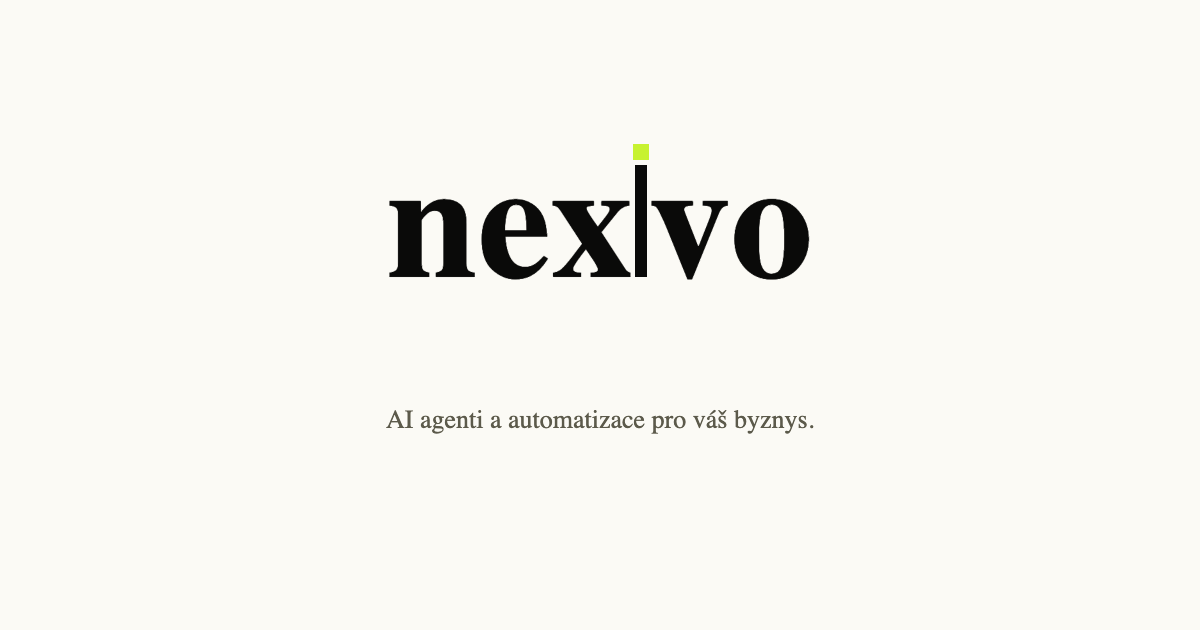
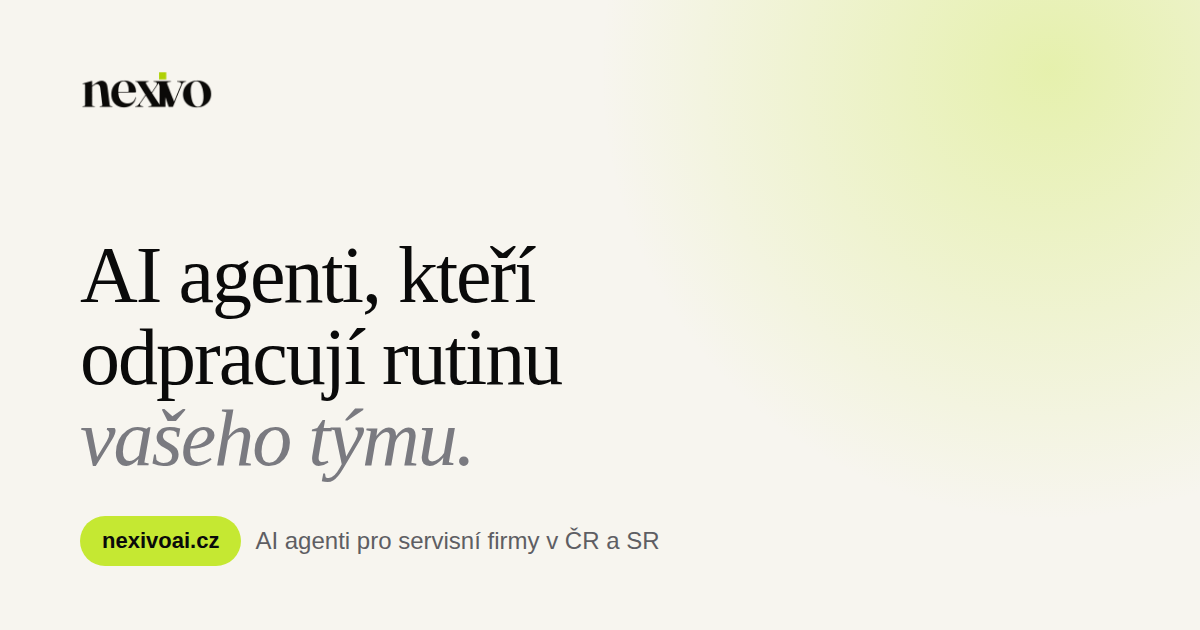
SEO: titulky a popisy s klíčovými slovy, jednotné OG/Twitter tagy, nový OG obrázek, rychlejší načtení fontu
- Titulky a meta description na všech veřejných stránkách, OG i na /gdpr a /obchodni-podminky
- Nový OG obrázek 1200x630 s aktuálním sdělením (?v=2 kvůli cache sítí)
- Fraunces přes <link> s preconnect místo @import v CSS (nezdržuje vykreslení)
- /kariera: nadpisy H2 -> H3 bez přeskoku, logo v JobPosting

Claude-Session: https://claude.ai/code/session_01MtvTmERJj1y5Pu5KuPm6vQ

diff --git a/kariera.html b/kariera.html
@@ -3,24 +3,28 @@
 <head>
   <meta charset="utf-8">
   <meta name="viewport" content="width=device-width, initial-scale=1">
-  <title>Kariéra — Nexivo</title>
-  <meta name="description" content="Nexivo hledá Obchodníka a Telefonistu do obchodního týmu. Pomáhejte firmám v ČR a SR nasazovat AI agenty.">
+  <title>Kariéra v Nexivo — obchodník a telefonista</title>
+  <meta name="description" content="Nexivo hledá Obchodníka a Telefonistu do obchodního týmu. Pomáhejte firmám v ČR a SR nasazovat AI agenty. Práce na dálku.">
   <meta name="robots" content="index, follow">
   <link rel="canonical" href="https://nexivoai.cz/kariera">
   <meta property="og:type" content="website">
   <meta property="og:url" content="https://nexivoai.cz/kariera">
-  <meta property="og:title" content="Kariéra — Nexivo">
-  <meta property="og:description" content="Nexivo hledá Obchodníka a Telefonistu do obchodního týmu. Pomáhejte firmám v ČR a SR nasazovat AI agenty.">
-  <meta property="og:image" content="https://nexivoai.cz/assets/nexivo-og.png">
+  <meta property="og:title" content="Kariéra v Nexivo — obchodník a telefonista">
+  <meta property="og:description" content="Nexivo hledá Obchodníka a Telefonistu do obchodního týmu. Pomáhejte firmám v ČR a SR nasazovat AI agenty. Práce na dálku.">
+  <meta property="og:image" content="https://nexivoai.cz/assets/nexivo-og.png?v=2">
   <meta property="og:image:width" content="1200">
   <meta property="og:image:height" content="630">
+  <meta property="og:image:alt" content="Nexivo — AI agenti, kteří odpracují rutinu vašeho týmu">
   <meta property="og:locale" content="cs_CZ">
   <meta property="og:site_name" content="Nexivo">
   <meta name="twitter:card" content="summary_large_image">
-  <meta name="twitter:title" content="Kariéra — Nexivo">
-  <meta name="twitter:description" content="Nexivo hledá Obchodníka a Telefonistu do obchodního týmu.">
-  <meta name="twitter:image" content="https://nexivoai.cz/assets/nexivo-og.png">
+  <meta name="twitter:title" content="Kariéra v Nexivo — obchodník a telefonista">
+  <meta name="twitter:description" content="Nexivo hledá Obchodníka a Telefonistu do obchodního týmu. Pomáhejte firmám v ČR a SR nasazovat AI agenty. Práce na dálku.">
+  <meta name="twitter:image" content="https://nexivoai.cz/assets/nexivo-og.png?v=2">
   <link rel="icon" href="assets/nexivo-favicon.svg">
+  <link rel="preconnect" href="https://fonts.googleapis.com">
+  <link rel="preconnect" href="https://fonts.gstatic.com" crossorigin>
+  <link rel="stylesheet" href="https://fonts.googleapis.com/css2?family=Fraunces:ital,opsz,wght@0,9..144,400;0,9..144,500;1,9..144,400&display=swap">
   <link rel="stylesheet" href="colors_and_type.css">
   <link rel="stylesheet" href="nexivo_marketing.css">
   <script type="application/ld+json">
@@ -38,7 +42,7 @@
         "@type": "Organization",
         "name": "Nexivo",
         "sameAs": "https://nexivoai.cz/",
-        "logo": "https://nexivoai.cz/assets/nexivo-og.png"
+        "logo": "https://nexivoai.cz/assets/nexivo-logo.png"
       },
       "jobLocationType": "TELECOMMUTE",
       "applicantLocationRequirements": [
@@ -59,7 +63,7 @@
         "@type": "Organization",
         "name": "Nexivo",
         "sameAs": "https://nexivoai.cz/",
-        "logo": "https://nexivoai.cz/assets/nexivo-og.png"
+        "logo": "https://nexivoai.cz/assets/nexivo-logo.png"
       },
       "jobLocationType": "TELECOMMUTE",
       "applicantLocationRequirements": [
@@ -93,7 +97,7 @@
     }
     .job-card__title { font-family: var(--font-display); font-weight: 400; font-size: 28px; line-height: 1.15; letter-spacing: -0.014em; margin: 0; color: var(--ink-1000); font-variation-settings: "opsz" 48; }
     .job-card__intro { font-size: 15px; line-height: 1.6; color: var(--ink-500); margin: 0; }
-    .job-card__block h4 { font: 600 12px/1 var(--font-sans); letter-spacing: 0.08em; text-transform: uppercase; color: var(--ink-700); margin: 0 0 10px; }
+    .job-card__block h3 { font: 600 12px/1 var(--font-sans); letter-spacing: 0.08em; text-transform: uppercase; color: var(--ink-700); margin: 0 0 10px; }
     .job-card__block ul { list-style: none; margin: 0; padding: 0; display: flex; flex-direction: column; gap: 8px; }
     .job-card__block li { display: flex; align-items: flex-start; gap: 10px; font: 400 14px/1.5 var(--font-sans); color: var(--ink-700); }
     .job-card__block li::before { content: ""; flex-shrink: 0; width: 5px; height: 5px; margin-top: 8px; background: var(--lime-500); }
@@ -227,7 +231,7 @@
         <h2 class="job-card__title">Obchodník</h2>
         <p class="job-card__intro">Vedete obchodní hovory s poptávkami, které už o Nexivo projevily zájem — přes web, kalkulačku úspor nebo doporučení. Představujete řešení, domlouváte úvodní hovory se specialistou a dotahujete první obchody.</p>
         <div class="job-card__block">
-          <h4>Koho hledáme</h4>
+          <h3>Koho hledáme</h3>
           <ul>
             <li>Sebevědomý mluvčí s chutí obchodovat.</li>
             <li>Zkušenost s telefonickým nebo online obchodem výhodou, není podmínkou.</li>
@@ -235,7 +239,7 @@
           </ul>
         </div>
         <div class="job-card__block">
-          <h4>Co nabízíme</h4>
+          <h3>Co nabízíme</h3>
           <ul>
             <li>Zahřáté leady, ne studené volání od nuly.</li>
             <li>Zaškolení do produktu i celého prodejního procesu.</li>
@@ -252,7 +256,7 @@
         <h2 class="job-card__title">Telefonista</h2>
         <p class="job-card__intro">Jinými slovy navolávač — aktivně oslovujete nové potenciální klienty telefonicky, představujete Nexivo a domlouváte úvodní schůzky pro obchodní tým. Pracujete podle připravených kontaktů a skriptu, který si můžete přizpůsobit.</p>
         <div class="job-card__block">
-          <h4>Koho hledáme</h4>
+          <h3>Koho hledáme</h3>
           <ul>
             <li>Vytrvalého komunikátora, kterého telefon nerozhodí.</li>
             <li>Odmítnutí bere jako součást hry, ne jako problém.</li>
@@ -260,7 +264,7 @@
           </ul>
         </div>
         <div class="job-card__block">
-          <h4>Co nabízíme</h4>
+          <h3>Co nabízíme</h3>
           <ul>
             <li>Jasně daný proces a skript, žádné bloudění.</li>
             <li>Odměnu za každou domluvenou schůzku.</li>

diff --git a/index.html b/index.html
@@ -3,24 +3,28 @@
 <head>
   <meta charset="utf-8">
   <meta name="viewport" content="width=device-width, initial-scale=1">
-  <title>Nexivo — AI agenti pro servisní firmy</title>
-  <meta name="description" content="AI agenti pro servisní firmy s 5+ zaměstnanci. Odpovídají na poptávky, domlouvají a přeplánují termíny, hlídají follow-upy a každé pondělí pošlou majiteli přehled firmy.">
+  <title>AI agenti pro firmy, kteří odpracují rutinu | Nexivo</title>
+  <meta name="description" content="AI agenti pro firmy s týmem: odpoví na poptávku do 60 vteřin, přeplánují termíny, hlídají follow-upy a každé pondělí pošlou majiteli report. ČR a SR.">
   <meta name="robots" content="index, follow">
   <link rel="canonical" href="https://nexivoai.cz/">
   <meta property="og:type" content="website">
   <meta property="og:url" content="https://nexivoai.cz/">
-  <meta property="og:title" content="Nexivo — AI agenti pro servisní firmy">
-  <meta property="og:description" content="AI agenti pro servisní firmy s 5+ zaměstnanci. Odpovídají na poptávky, domlouvají a přeplánují termíny, hlídají follow-upy a každé pondělí pošlou majiteli přehled firmy.">
-  <meta property="og:image" content="https://nexivoai.cz/assets/nexivo-og.png">
+  <meta property="og:title" content="AI agenti pro firmy, kteří odpracují rutinu | Nexivo">
+  <meta property="og:description" content="AI agenti pro firmy s týmem: odpoví na poptávku do 60 vteřin, přeplánují termíny, hlídají follow-upy a každé pondělí pošlou majiteli report. ČR a SR.">
+  <meta property="og:image" content="https://nexivoai.cz/assets/nexivo-og.png?v=2">
   <meta property="og:image:width" content="1200">
   <meta property="og:image:height" content="630">
+  <meta property="og:image:alt" content="Nexivo — AI agenti, kteří odpracují rutinu vašeho týmu">
   <meta property="og:locale" content="cs_CZ">
   <meta property="og:site_name" content="Nexivo">
   <meta name="twitter:card" content="summary_large_image">
-  <meta name="twitter:title" content="Nexivo — AI agenti pro servisní firmy">
-  <meta name="twitter:description" content="AI agenti pro servisní firmy s 5+ zaměstnanci. Odpovídají na poptávky, domlouvají a přeplánují termíny, hlídají follow-upy a každé pondělí pošlou majiteli přehled firmy.">
-  <meta name="twitter:image" content="https://nexivoai.cz/assets/nexivo-og.png">
+  <meta name="twitter:title" content="AI agenti pro firmy, kteří odpracují rutinu | Nexivo">
+  <meta name="twitter:description" content="AI agenti pro firmy s týmem: odpoví na poptávku do 60 vteřin, přeplánují termíny, hlídají follow-upy a každé pondělí pošlou majiteli report. ČR a SR.">
+  <meta name="twitter:image" content="https://nexivoai.cz/assets/nexivo-og.png?v=2">
   <link rel="icon" href="assets/nexivo-favicon.svg">
+  <link rel="preconnect" href="https://fonts.googleapis.com">
+  <link rel="preconnect" href="https://fonts.gstatic.com" crossorigin>
+  <link rel="stylesheet" href="https://fonts.googleapis.com/css2?family=Fraunces:ital,opsz,wght@0,9..144,400;0,9..144,500;1,9..144,400&display=swap">
   <link rel="stylesheet" href="colors_and_type.css">
   <link rel="stylesheet" href="nexivo_marketing.css">
   <link href="https://assets.calendly.com/assets/external/widget.css" rel="stylesheet">

diff --git a/kontakt.html b/kontakt.html
@@ -3,24 +3,28 @@
 <head>
   <meta charset="utf-8">
   <meta name="viewport" content="width=device-width, initial-scale=1">
-  <title>Kontakt — Nexivo</title>
-  <meta name="description" content="Kontaktujte Nexivo — AI agenty pro servisní firmy v ČR a SR. E-mail, telefon i fakturační údaje na jednom místě.">
+  <title>Kontakt — Nexivo, AI agenti pro firmy</title>
+  <meta name="description" content="Kontaktujte Nexivo — AI agenty pro servisní firmy v ČR a SR. E-mail, telefon i fakturační údaje RIVENTI s.r.o. na jednom místě.">
   <meta name="robots" content="index, follow">
   <link rel="canonical" href="https://nexivoai.cz/kontakt">
   <meta property="og:type" content="website">
   <meta property="og:url" content="https://nexivoai.cz/kontakt">
-  <meta property="og:title" content="Kontakt — Nexivo">
-  <meta property="og:description" content="Kontaktujte Nexivo — AI agenty pro servisní firmy v ČR a SR.">
-  <meta property="og:image" content="https://nexivoai.cz/assets/nexivo-og.png">
+  <meta property="og:title" content="Kontakt — Nexivo, AI agenti pro firmy">
+  <meta property="og:description" content="Kontaktujte Nexivo — AI agenty pro servisní firmy v ČR a SR. E-mail, telefon i fakturační údaje RIVENTI s.r.o. na jednom místě.">
+  <meta property="og:image" content="https://nexivoai.cz/assets/nexivo-og.png?v=2">
   <meta property="og:image:width" content="1200">
   <meta property="og:image:height" content="630">
+  <meta property="og:image:alt" content="Nexivo — AI agenti, kteří odpracují rutinu vašeho týmu">
   <meta property="og:locale" content="cs_CZ">
   <meta property="og:site_name" content="Nexivo">
   <meta name="twitter:card" content="summary_large_image">
-  <meta name="twitter:title" content="Kontakt — Nexivo">
-  <meta name="twitter:description" content="Kontaktujte Nexivo — AI agenty pro servisní firmy v ČR a SR.">
-  <meta name="twitter:image" content="https://nexivoai.cz/assets/nexivo-og.png">
+  <meta name="twitter:title" content="Kontakt — Nexivo, AI agenti pro firmy">
+  <meta name="twitter:description" content="Kontaktujte Nexivo — AI agenty pro servisní firmy v ČR a SR. E-mail, telefon i fakturační údaje RIVENTI s.r.o. na jednom místě.">
+  <meta name="twitter:image" content="https://nexivoai.cz/assets/nexivo-og.png?v=2">
   <link rel="icon" href="assets/nexivo-favicon.svg">
+  <link rel="preconnect" href="https://fonts.googleapis.com">
+  <link rel="preconnect" href="https://fonts.gstatic.com" crossorigin>
+  <link rel="stylesheet" href="https://fonts.googleapis.com/css2?family=Fraunces:ital,opsz,wght@0,9..144,400;0,9..144,500;1,9..144,400&display=swap">
   <link rel="stylesheet" href="colors_and_type.css">
   <link rel="stylesheet" href="nexivo_marketing.css">
 

diff --git a/tym.html b/tym.html
@@ -3,24 +3,28 @@
 <head>
   <meta charset="utf-8">
   <meta name="viewport" content="width=device-width, initial-scale=1">
-  <title>Tým — Nexivo</title>
+  <title>Tým — lidé za AI agenty Nexivo</title>
   <meta name="description" content="Nexivo založili Roman Richter (Head of Sales) a Nicolas Richter (CTO). Poznejte tým, který staví AI agenty pro servisní firmy v ČR a SR.">
   <meta name="robots" content="index, follow">
   <link rel="canonical" href="https://nexivoai.cz/tym">
   <meta property="og:type" content="website">
   <meta property="og:url" content="https://nexivoai.cz/tym">
-  <meta property="og:title" content="Tým — Nexivo">
-  <meta property="og:description" content="Nexivo založili Roman Richter (Head of Sales) a Nicolas Richter (CTO).">
-  <meta property="og:image" content="https://nexivoai.cz/assets/nexivo-og.png">
+  <meta property="og:title" content="Tým — lidé za AI agenty Nexivo">
+  <meta property="og:description" content="Nexivo založili Roman Richter (Head of Sales) a Nicolas Richter (CTO). Poznejte tým, který staví AI agenty pro servisní firmy v ČR a SR.">
+  <meta property="og:image" content="https://nexivoai.cz/assets/nexivo-og.png?v=2">
   <meta property="og:image:width" content="1200">
   <meta property="og:image:height" content="630">
+  <meta property="og:image:alt" content="Nexivo — AI agenti, kteří odpracují rutinu vašeho týmu">
   <meta property="og:locale" content="cs_CZ">
   <meta property="og:site_name" content="Nexivo">
   <meta name="twitter:card" content="summary_large_image">
-  <meta name="twitter:title" content="Tým — Nexivo">
-  <meta name="twitter:description" content="Nexivo založili Roman Richter (Head of Sales) a Nicolas Richter (CTO).">
-  <meta name="twitter:image" content="https://nexivoai.cz/assets/nexivo-og.png">
+  <meta name="twitter:title" content="Tým — lidé za AI agenty Nexivo">
+  <meta name="twitter:description" content="Nexivo založili Roman Richter (Head of Sales) a Nicolas Richter (CTO). Poznejte tým, který staví AI agenty pro servisní firmy v ČR a SR.">
+  <meta name="twitter:image" content="https://nexivoai.cz/assets/nexivo-og.png?v=2">
   <link rel="icon" href="assets/nexivo-favicon.svg">
+  <link rel="preconnect" href="https://fonts.googleapis.com">
+  <link rel="preconnect" href="https://fonts.gstatic.com" crossorigin>
+  <link rel="stylesheet" href="https://fonts.googleapis.com/css2?family=Fraunces:ital,opsz,wght@0,9..144,400;0,9..144,500;1,9..144,400&display=swap">
   <link rel="stylesheet" href="colors_and_type.css">
   <link rel="stylesheet" href="nexivo_marketing.css">
 

diff --git a/gdpr.html b/gdpr.html
@@ -3,17 +3,28 @@
 <head>
   <meta charset="utf-8">
   <meta name="viewport" content="width=device-width, initial-scale=1">
-  <title>Ochrana osobních údajů — Nexivo</title>
+  <title>Ochrana osobních údajů (GDPR) — Nexivo</title>
   <meta name="description" content="Zásady zpracování osobních údajů společnosti RIVENTI s.r.o. (Nexivo) — jaké údaje zpracováváme, proč, a jaká máte práva podle GDPR.">
   <meta name="robots" content="index, follow">
   <link rel="canonical" href="https://nexivoai.cz/gdpr">
   <meta property="og:type" content="website">
   <meta property="og:url" content="https://nexivoai.cz/gdpr">
-  <meta property="og:title" content="Ochrana osobních údajů — Nexivo">
-  <meta property="og:description" content="Zásady zpracování osobních údajů společnosti RIVENTI s.r.o. (Nexivo).">
+  <meta property="og:title" content="Ochrana osobních údajů (GDPR) — Nexivo">
+  <meta property="og:description" content="Zásady zpracování osobních údajů společnosti RIVENTI s.r.o. (Nexivo) — jaké údaje zpracováváme, proč, a jaká máte práva podle GDPR.">
+  <meta property="og:image" content="https://nexivoai.cz/assets/nexivo-og.png?v=2">
+  <meta property="og:image:width" content="1200">
+  <meta property="og:image:height" content="630">
+  <meta property="og:image:alt" content="Nexivo — AI agenti, kteří odpracují rutinu vašeho týmu">
   <meta property="og:locale" content="cs_CZ">
   <meta property="og:site_name" content="Nexivo">
+  <meta name="twitter:card" content="summary_large_image">
+  <meta name="twitter:title" content="Ochrana osobních údajů (GDPR) — Nexivo">
+  <meta name="twitter:description" content="Zásady zpracování osobních údajů společnosti RIVENTI s.r.o. (Nexivo) — jaké údaje zpracováváme, proč, a jaká máte práva podle GDPR.">
+  <meta name="twitter:image" content="https://nexivoai.cz/assets/nexivo-og.png?v=2">
   <link rel="icon" href="assets/nexivo-favicon.svg">
+  <link rel="preconnect" href="https://fonts.googleapis.com">
+  <link rel="preconnect" href="https://fonts.gstatic.com" crossorigin>
+  <link rel="stylesheet" href="https://fonts.googleapis.com/css2?family=Fraunces:ital,opsz,wght@0,9..144,400;0,9..144,500;1,9..144,400&display=swap">
   <link rel="stylesheet" href="colors_and_type.css">
   <link rel="stylesheet" href="nexivo_marketing.css">
 

diff --git a/obchodni-podminky.html b/obchodni-podminky.html
@@ -4,16 +4,27 @@
   <meta charset="utf-8">
   <meta name="viewport" content="width=device-width, initial-scale=1">
   <title>Obchodní podmínky — Nexivo</title>
-  <meta name="description" content="Obchodní podmínky společnosti RIVENTI s.r.o. (Nexivo) pro poskytování AI agentů, automatizace a souvisejících služeb.">
+  <meta name="description" content="Obchodní podmínky společnosti RIVENTI s.r.o. (Nexivo) pro poskytování AI agentů a souvisejících služeb, včetně garance vrácení peněz.">
   <meta name="robots" content="index, follow">
   <link rel="canonical" href="https://nexivoai.cz/obchodni-podminky">
   <meta property="og:type" content="website">
   <meta property="og:url" content="https://nexivoai.cz/obchodni-podminky">
   <meta property="og:title" content="Obchodní podmínky — Nexivo">
-  <meta property="og:description" content="Obchodní podmínky společnosti RIVENTI s.r.o. (Nexivo).">
+  <meta property="og:description" content="Obchodní podmínky společnosti RIVENTI s.r.o. (Nexivo) pro poskytování AI agentů a souvisejících služeb, včetně garance vrácení peněz.">
+  <meta property="og:image" content="https://nexivoai.cz/assets/nexivo-og.png?v=2">
+  <meta property="og:image:width" content="1200">
+  <meta property="og:image:height" content="630">
+  <meta property="og:image:alt" content="Nexivo — AI agenti, kteří odpracují rutinu vašeho týmu">
   <meta property="og:locale" content="cs_CZ">
   <meta property="og:site_name" content="Nexivo">
+  <meta name="twitter:card" content="summary_large_image">
+  <meta name="twitter:title" content="Obchodní podmínky — Nexivo">
+  <meta name="twitter:description" content="Obchodní podmínky společnosti RIVENTI s.r.o. (Nexivo) pro poskytování AI agentů a souvisejících služeb, včetně garance vrácení peněz.">
+  <meta name="twitter:image" content="https://nexivoai.cz/assets/nexivo-og.png?v=2">
   <link rel="icon" href="assets/nexivo-favicon.svg">
+  <link rel="preconnect" href="https://fonts.googleapis.com">
+  <link rel="preconnect" href="https://fonts.gstatic.com" crossorigin>
+  <link rel="stylesheet" href="https://fonts.googleapis.com/css2?family=Fraunces:ital,opsz,wght@0,9..144,400;0,9..144,500;1,9..144,400&display=swap">
   <link rel="stylesheet" href="colors_and_type.css">
   <link rel="stylesheet" href="nexivo_marketing.css">
 

diff --git a/business.html b/business.html
@@ -20,6 +20,9 @@
   <meta name="twitter:description" content="AI agent pro realitní makléře — přebírá hovory, dotazy klientů a administrativu, hledá nové zakázky a posílá vám lead do mobilu do minuty.">
   <meta name="twitter:image" content="https://nexivoai.cz/assets/nexivo-og.png">
   <link rel="icon" href="assets/nexivo-favicon.svg">
+  <link rel="preconnect" href="https://fonts.googleapis.com">
+  <link rel="preconnect" href="https://fonts.gstatic.com" crossorigin>
+  <link rel="stylesheet" href="https://fonts.googleapis.com/css2?family=Fraunces:ital,opsz,wght@0,9..144,400;0,9..144,500;1,9..144,400&display=swap">
   <link rel="stylesheet" href="colors_and_type.css">
   <link rel="stylesheet" href="nexivo_marketing.css">
   <link rel="stylesheet" href="business.css">

diff --git a/nexivo_inquiry.html b/nexivo_inquiry.html
@@ -13,6 +13,9 @@
   <meta property="og:locale" content="cs_CZ">
   <meta property="og:site_name" content="Nexivo">
   <link rel="icon" href="assets/nexivo-favicon.svg">
+  <link rel="preconnect" href="https://fonts.googleapis.com">
+  <link rel="preconnect" href="https://fonts.gstatic.com" crossorigin>
+  <link rel="stylesheet" href="https://fonts.googleapis.com/css2?family=Fraunces:ital,opsz,wght@0,9..144,400;0,9..144,500;1,9..144,400&display=swap">
   <link rel="stylesheet" href="colors_and_type.css">
   <link rel="stylesheet" href="nexivo_marketing.css">
 

diff --git a/colors_and_type.css b/colors_and_type.css
@@ -5,8 +5,6 @@
    ========================================================================= */
 
 
-@import url('https://fonts.googleapis.com/css2?family=Fraunces:ital,opsz,wght@0,9..144,400;0,9..144,500;1,9..144,400&display=swap');
-
 :root {
   /* ---------- PRIMITIVE COLORS ---------- */
   /* Ink — dark text and surfaces */
